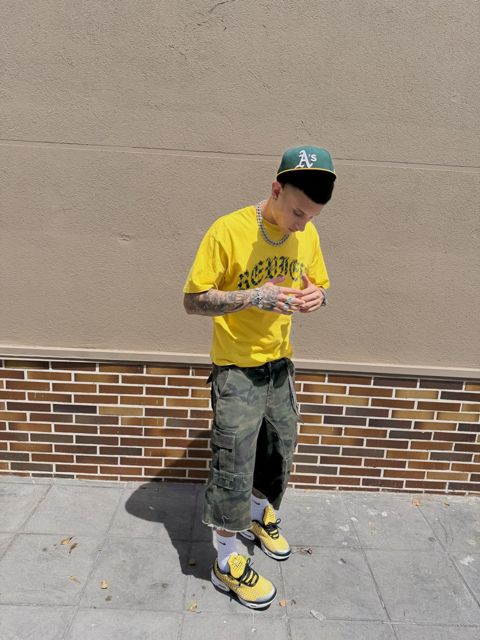
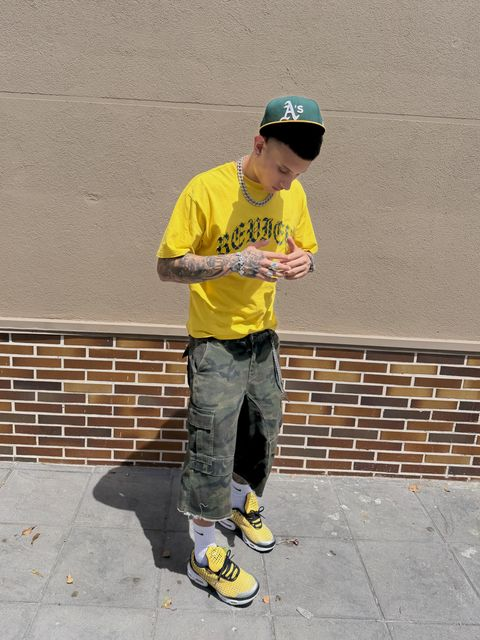
Outfits: 20 fotos nuevas y todas encuadradas igual, de cuerpo entero y centradas
- Añade las 20 fotos nuevas de la carpeta mis fotos de Drive (34 outfits en total)
- Todas recortadas igual a partir de la detección de la persona: formato 3:4,
  cuerpo entero con los zapatos, centrado y ocupando el 80 % del alto
- Quita las dos capturas de Instagram que cortaban los zapatos

Claude-Session: https://claude.ai/code/session_01F3ZeazQgfoDgHrvd35rQp7

diff --git a/data.js b/data.js
@@ -23,13 +23,14 @@ const PERFIL = {
 */
 const REDES = [
   { nombre: "Instagram", usuario: "@jjn.dzz", url: "https://www.instagram.com/jjn.dzz/", texto: "Moda, looks y estilo personal",
-    fotos: ["assets/redes/post-1.jpg", "assets/redes/post-4.jpg", "assets/redes/post-6.jpg"] },
+    fotos: [] },
   { nombre: "TikTok",    usuario: "@jjn.dzz", url: "https://www.tiktok.com/@jjn.dzz", texto: "Vídeos, tendencias y contenido", fotos: [] },
   { nombre: "LinkedIn",  usuario: "Jano Arribas Díaz", url: "", texto: "Perfil profesional", fotos: [] },
 ];
 
 /* ---------- BIBLIOTECA DE OUTFITS ----------
-   Aparecen en "Estilo" > "Mis outfits". Para añadir uno, sube la foto a assets/looks/
+   Aparecen en "Estilo" > "Mis outfits". Todas están recortadas igual: formato 3:4, de cuerpo
+   entero, centrado y ocupando unos 4/5 del alto. Para añadir uno, sube la foto a assets/looks/
    (y una copia pequeña, de unos 640 px, a assets/looks/mini/) y añade una línea:
    { imagen: "assets/looks/mi-look.jpg", mini: "assets/looks/mini/mi-look.jpg", texto: "Nombre", grupo: "Color" },
    grupo sirve para los filtros: "Color", "Neutros" o "Denim" (puedes crear otros).
@@ -39,20 +40,38 @@ const POSTS = [
   { imagen: "assets/looks/look-01.jpg", mini: "assets/looks/mini/look-01.jpg", texto: "Modo sol", grupo: "Color" },
   { imagen: "assets/looks/look-02.jpg", mini: "assets/looks/mini/look-02.jpg", texto: "Firmado en la pared", grupo: "Denim" },
   { imagen: "assets/looks/look-03.jpg", mini: "assets/looks/mini/look-03.jpg", texto: "Llamada desde Londres", grupo: "Neutros" },
-  { imagen: "assets/looks/look-04.jpg", mini: "assets/looks/mini/look-04.jpg", texto: "Número 88", grupo: "Color" },
-  { imagen: "assets/looks/look-05.jpg", mini: "assets/looks/mini/look-05.jpg", texto: "Alerta roja", grupo: "Color" },
-  { imagen: "assets/looks/look-06.jpg", mini: "assets/looks/mini/look-06.jpg", texto: "Atardecer en rosa", grupo: "Color" },
-  { imagen: "assets/redes/post-1.jpg", enlace: "https://www.instagram.com/jjn.dzz/", texto: "Golden hour", grupo: "Color" },
-  { imagen: "assets/looks/look-07.jpg", mini: "assets/looks/mini/look-07.jpg", texto: "Andén 7", grupo: "Neutros" },
-  { imagen: "assets/looks/look-08.jpg", mini: "assets/looks/mini/look-08.jpg", texto: "Cielo de barrio", grupo: "Color" },
-  { imagen: "assets/redes/post-2.jpg", enlace: "https://www.instagram.com/jjn.dzz/", texto: "Splash", grupo: "Color" },
-  { imagen: "assets/looks/look-09.jpg", mini: "assets/looks/mini/look-09.jpg", texto: "Aparcado con estilo", grupo: "Denim" },
-  { imagen: "assets/redes/post-3.jpg", enlace: "https://www.instagram.com/jjn.dzz/", texto: "Arena y sombra", grupo: "Neutros" },
-  { imagen: "assets/looks/look-10.jpg", mini: "assets/looks/mini/look-10.jpg", texto: "Subiendo de nivel", grupo: "Neutros" },
-  { imagen: "assets/redes/post-4.jpg", enlace: "https://www.instagram.com/jjn.dzz/", texto: "Punto a punto", grupo: "Denim" },
-  { imagen: "assets/redes/post-5.jpg", enlace: "https://www.instagram.com/jjn.dzz/", texto: "Only the brave", grupo: "Neutros" },
-  { imagen: "assets/redes/post-6.jpg", enlace: "https://www.instagram.com/jjn.dzz/", texto: "Violeta eléctrico", grupo: "Color" },
-];
+  { imagen: "assets/looks/look-04.jpg", mini: "assets/looks/mini/look-04.jpg", texto: "Sesión golfa", grupo: "Color" },
+  { imagen: "assets/looks/look-05.jpg", mini: "assets/looks/mini/look-05.jpg", texto: "Recién llegado de París", grupo: "Neutros" },
+  { imagen: "assets/looks/look-06.jpg", mini: "assets/looks/mini/look-06.jpg", texto: "Túnel infinito", grupo: "Color" },
+  { imagen: "assets/looks/look-07.jpg", mini: "assets/looks/mini/look-07.jpg", texto: "Sobre el Támesis", grupo: "Denim" },
+  { imagen: "assets/looks/look-08.jpg", mini: "assets/looks/mini/look-08.jpg", texto: "Número 88", grupo: "Color" },
+  { imagen: "assets/looks/look-09.jpg", mini: "assets/looks/mini/look-09.jpg", texto: "Golden hour", grupo: "Neutros" },
+  { imagen: "assets/looks/look-10.jpg", mini: "assets/looks/mini/look-10.jpg", texto: "Año del dragón", grupo: "Color" },
+  { imagen: "assets/looks/look-11.jpg", mini: "assets/looks/mini/look-11.jpg", texto: "Planta 08", grupo: "Denim" },
+  { imagen: "assets/looks/look-12.jpg", mini: "assets/looks/mini/look-12.jpg", texto: "Cero filtros", grupo: "Neutros" },
+  { imagen: "assets/looks/look-13.jpg", mini: "assets/looks/mini/look-13.jpg", texto: "Alerta roja", grupo: "Color" },
+  { imagen: "assets/looks/look-14.jpg", mini: "assets/looks/mini/look-14.jpg", texto: "Mirando arriba", grupo: "Denim" },
+  { imagen: "assets/looks/look-15.jpg", mini: "assets/looks/mini/look-15.jpg", texto: "Telaraña", grupo: "Color" },
+  { imagen: "assets/looks/look-16.jpg", mini: "assets/looks/mini/look-16.jpg", texto: "Rayas salvajes", grupo: "Neutros" },
+  { imagen: "assets/looks/look-17.jpg", mini: "assets/looks/mini/look-17.jpg", texto: "Atardecer en rosa", grupo: "Color" },
+  { imagen: "assets/looks/look-18.jpg", mini: "assets/looks/mini/look-18.jpg", texto: "Galería blanca", grupo: "Denim" },
+  { imagen: "assets/looks/look-19.jpg", mini: "assets/looks/mini/look-19.jpg", texto: "Vistas a la City", grupo: "Color" },
+  { imagen: "assets/looks/look-20.jpg", mini: "assets/looks/mini/look-20.jpg", texto: "Andén 7", grupo: "Neutros" },
+  { imagen: "assets/looks/look-21.jpg", mini: "assets/looks/mini/look-21.jpg", texto: "El 10", grupo: "Color" },
+  { imagen: "assets/looks/look-22.jpg", mini: "assets/looks/mini/look-22.jpg", texto: "Básicos con actitud", grupo: "Denim" },
+  { imagen: "assets/looks/look-23.jpg", mini: "assets/looks/mini/look-23.jpg", texto: "Pasillo de chuches", grupo: "Color" },
+  { imagen: "assets/looks/look-24.jpg", mini: "assets/looks/mini/look-24.jpg", texto: "Jardín de cemento", grupo: "Denim" },
+  { imagen: "assets/looks/look-25.jpg", mini: "assets/looks/mini/look-25.jpg", texto: "Cielo de barrio", grupo: "Color" },
+  { imagen: "assets/looks/look-26.jpg", mini: "assets/looks/mini/look-26.jpg", texto: "From hustle to riches", grupo: "Color" },
+  { imagen: "assets/looks/look-27.jpg", mini: "assets/looks/mini/look-27.jpg", texto: "Aparcado con estilo", grupo: "Denim" },
+  { imagen: "assets/looks/look-28.jpg", mini: "assets/looks/mini/look-28.jpg", texto: "Modo noche", grupo: "Neutros" },
+  { imagen: "assets/looks/look-29.jpg", mini: "assets/looks/mini/look-29.jpg", texto: "Verano en pausa", grupo: "Denim" },
+  { imagen: "assets/looks/look-30.jpg", mini: "assets/looks/mini/look-30.jpg", texto: "Subiendo de nivel", grupo: "Neutros" },
+  { imagen: "assets/looks/look-31.jpg", mini: "assets/looks/mini/look-31.jpg", texto: "Splash", grupo: "Color" },
+  { imagen: "assets/looks/look-32.jpg", mini: "assets/looks/mini/look-32.jpg", texto: "Arena y sombra", grupo: "Neutros" },
+  { imagen: "assets/looks/look-33.jpg", mini: "assets/looks/mini/look-33.jpg", texto: "Only the brave", grupo: "Neutros" },
+  { imagen: "assets/looks/look-34.jpg", mini: "assets/looks/mini/look-34.jpg", texto: "Violeta eléctrico", grupo: "Color" },
+]
 
 /* ---------- ESTILO: moda y diseños ----------
    El texto y las etiquetas aparecen en el apartado "Estilo".

diff --git a/README.md b/README.md
@@ -45,6 +45,7 @@ Si el trabajo es una sola imagen fija, usa `imagen: "assets/trabajos/portada.jpg
 Para un email en HTML (por ejemplo de MailerLite), guarda el código en `assets/trabajos/emails/mi-email.html` y usa `tipoVisor: "email"` con `email: "assets/trabajos/emails/mi-email.html"`. Al publicar, sus imágenes se descargan solas en `assets/trabajos/emails/img/`.
 
 ### Añadir outfits a la biblioteca
+Todas las fotos van recortadas igual: formato 3:4, de cuerpo entero (con zapatos), centrado y ocupando unos 4/5 del alto.
 1. Sube la foto a `assets/looks/` y una copia pequeña (unos 640 px de ancho) a `assets/looks/mini/`.
 2. En `data.js`, en `POSTS`, añade una línea:
    `{ imagen: "assets/looks/mi-look.jpg", mini: "assets/looks/mini/mi-look.jpg", texto: "Nombre del look", grupo: "Color" },`
